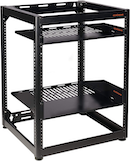
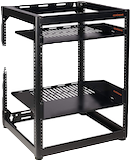
Resize images and remove column in table

diff --git a/README.md b/README.md
@@ -36,22 +36,21 @@ You'll find my setup below.
 
 <!-- ![](https://img.shields.io/badge/homeassistant-41BDF5.svg?&style=for-the-badge&logo=homeassistant&logoColor=white) -->
 
-|     | Device                                       | Image                         | OS                                                                                                                                                                                               | Where to Buy |
-| --- | -------------------------------------------- | ----------------------------- | ------------------------------------------------------------------------------------------------------------------------------------------------------------------------------------------------ | ------------ |
-|     | Used NUCs                                    | ![nucs]                       | ![](https://img.shields.io/badge/proxmox-E57000?style=for-the-badge&logo=proxmox&logoColor=black) ![](https://img.shields.io/badge/k3s-FFC61C.svg?&style=for-the-badge&logo=k3s&logoColor=white) | D1           |
-|     | Intel NUC                                    | ![ha-nuc]                     | ![](https://img.shields.io/badge/homeassistant-41BDF5.svg?&style=for-the-badge&logo=homeassistant&logoColor=white)                                                                               | D2           |
-|     | UniFi Dream Machine Pro                      | ![udm-pro]                    | C3                                                                                                                                                                                               | D3           |
-|     | UniFi Flex HD AP                             | ![unifi-flex-hd]              | C4                                                                                                                                                                                               | D4           |
-|     | TP-Link (T1600G-18TS) 16 Port Managed Switch | ![tp-link-T1600G-18TS-switch] | C5                                                                                                                                                                                               | D5           |
-|     | Echogear Server Rack                         | ![rack]                       | C6                                                                                                                                                                                               | D6           |
-|     | Generic NUC 1U Rack                          | ![nuc-rack]                   | C7                                                                                                                                                                                               | D7           |
-|     | Cyberpower power strip 12 outlets            | ![cyberpower-strip-12]        | C8                                                                                                                                                                                               | D8           |
-|     | Cyberpower power strip 18 outlets            | ![cyberpower-strip-18]        | C9                                                                                                                                                                                               | D9           |
-|     | Synology 9210+ NAS                           | ![synology-9120]              | C10                                                                                                                                                                                              | D10          |
-|     | Deco X55 Router                              | ![deco-x55]                   | C11                                                                                                                                                                                              | D11          |
-|     | Navepoint 12U Closet Rack                    | ![navepoint-12u-closet-rack]  | C12                                                                                                                                                                                              | D12          |
-|     | Raspberry Pi 4 B 8gb RAM                     | ![raspberry-pi-4]             |                                                                                                                                                                                                  |              |
-
+|   | Device                                       | Image                         | Where to Buy |
+|---|----------------------------------------------|-------------------------------|--------------|
+|   | Used NUCs                                    | ![nucs]                       | D1           |
+|   | Intel NUC                                    | ![ha-nuc]                     | D2           |
+|   | UniFi Dream Machine Pro                      | ![udm-pro]                    | D3           |
+|   | UniFi Flex HD AP                             | ![unifi-flex-hd]              | D4           |
+|   | TP-Link (T1600G-18TS) 16 Port Managed Switch | ![tp-link-T1600G-18TS-switch] | D5           |
+|   | Echogear Server Rack                         | ![rack]                       | D6           |
+|   | Generic NUC 1U Rack                          | ![nuc-rack]                   | D7           |
+|   | Cyberpower power strip 12 outlets            | ![cyberpower-strip-12]        | D8           |
+|   | Cyberpower power strip 18 outlets            | ![cyberpower-strip-18]        | D9           |
+|   | Synology 9210+ NAS                           | ![synology-9120]              | D10          |
+|   | Deco X55 Router                              | ![deco-x55]                   | D11          |
+|   | Navepoint 12U Closet Rack                    | ![navepoint-12u-closet-rack]  | D12          |
+|     | Raspberry Pi 4 B 8gb RAM                     | ![raspberry-pi-4]             |    
 
 [☝ Top](#table-of-contents)
 
